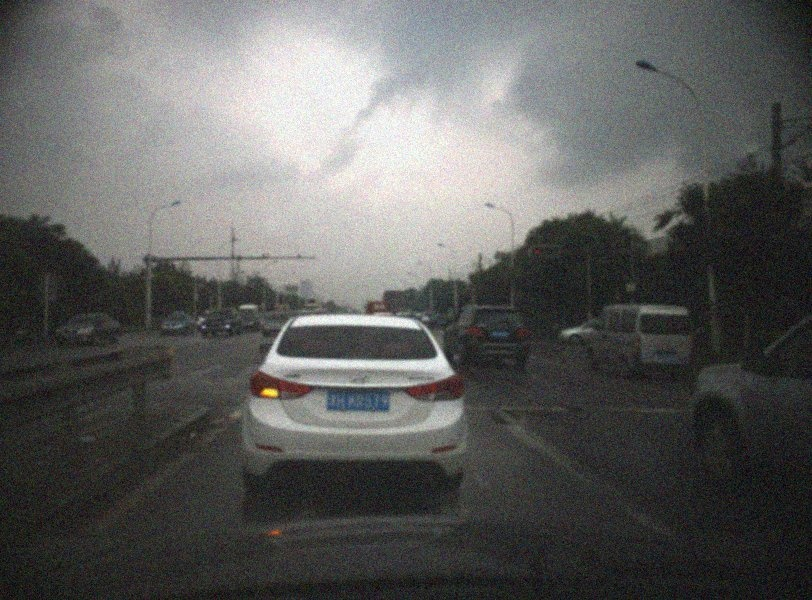
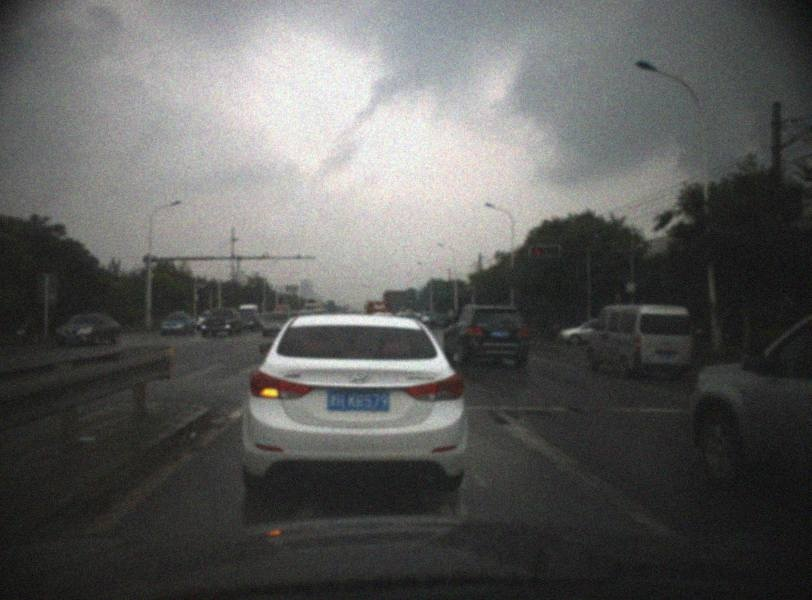
feat: added the model pytorch config files for different depths and channel amount

diff --git a/Dataset/synthetic_degradation.py b/Dataset/synthetic_degradation.py
@@ -99,15 +99,15 @@ class Blur:
 
 class Downscale:
     @staticmethod
-    def bicubic_downscale(img: np.ndarray, scale: float = 0.25) -> np.ndarray:  
+    def bicubic_downscale(img: np.ndarray, scale: float = 0.5) -> np.ndarray:  
         return cv2.resize(img, None, fx=scale, fy=scale, interpolation=cv2.INTER_CUBIC)
     
     @staticmethod
-    def bilinear_downscale(img: np.ndarray, scale: float = 0.25) -> np.ndarray:
+    def bilinear_downscale(img: np.ndarray, scale: float = 0.5) -> np.ndarray:
         return cv2.resize(img, None, fx=scale, fy=scale, interpolation=cv2.INTER_LINEAR)
     
     @staticmethod
-    def areasampling_downscale(img: np.ndarray, scale: float = 0.25) -> np.ndarray:
+    def areasampling_downscale(img: np.ndarray, scale: float = 0.5) -> np.ndarray:
         return cv2.resize(img, None, fx=scale, fy=scale, interpolation=cv2.INTER_AREA)
     
 class Noise:
@@ -235,8 +235,8 @@ class Compression:
         return frame
 
 if __name__ == "__main__":
-    img = cv2.imread('./HR/initial_test.jpg')
+    img = cv2.imread('./HR/256patch_test.jpg')
     
     deg = SynthDeg()
     deg_img = deg.degrade_image_shuffle(img)
-    cv2.imwrite('./LR/initial_test.jpg', deg_img)
+    cv2.imwrite('./LR/x2/256patch_test.jpg', deg_img)